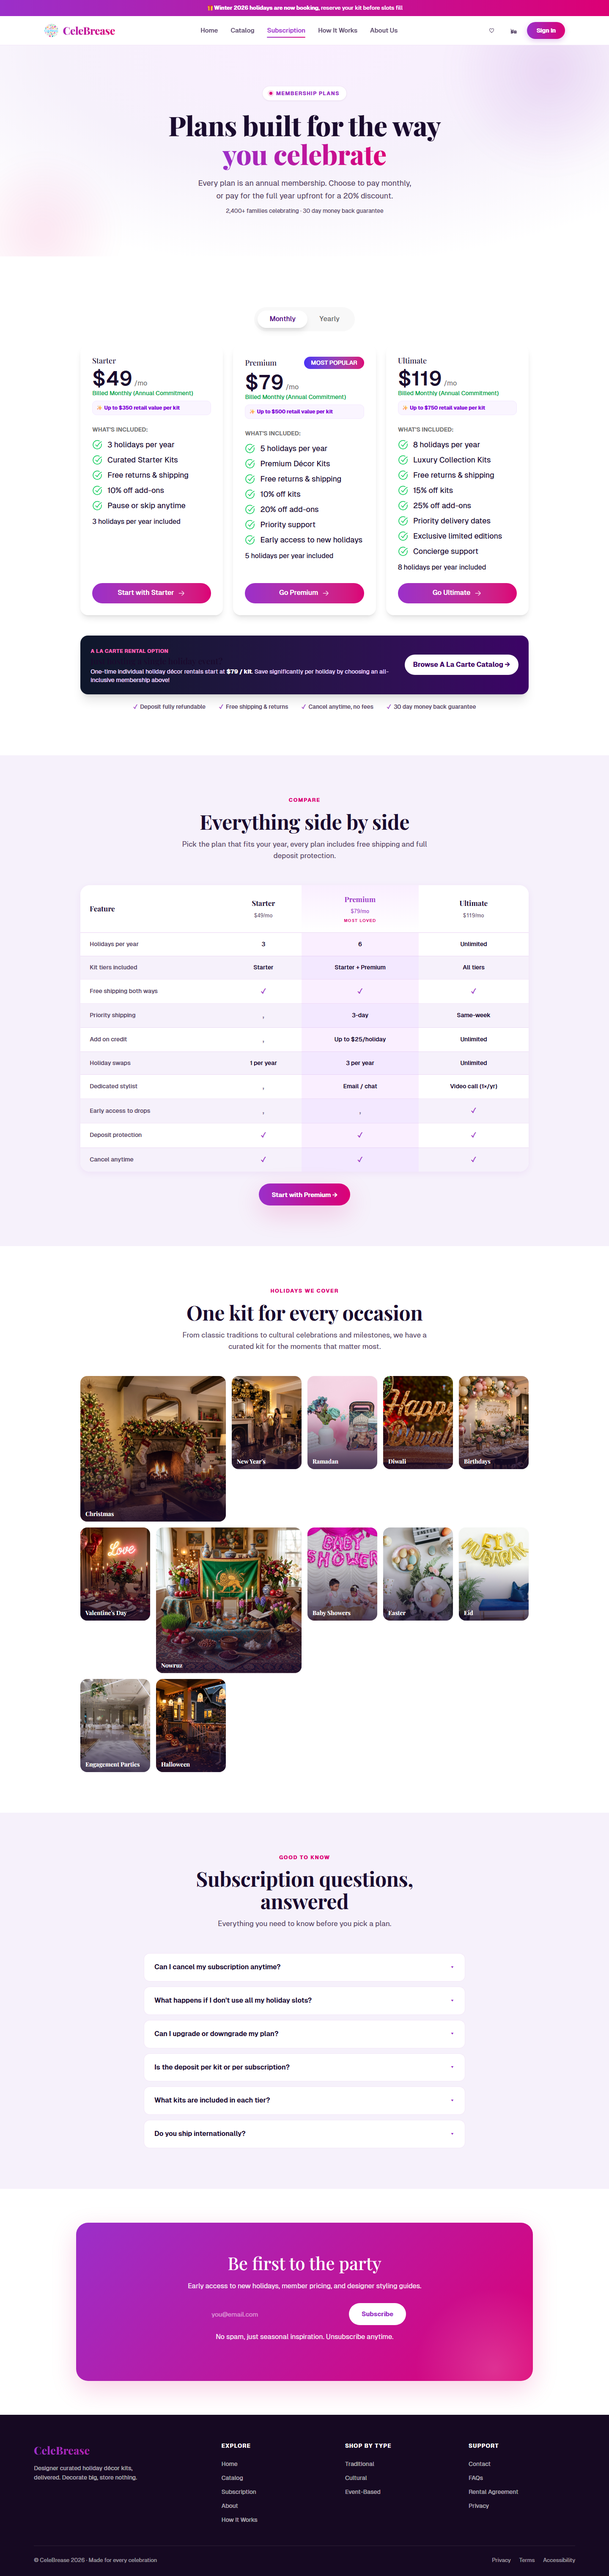
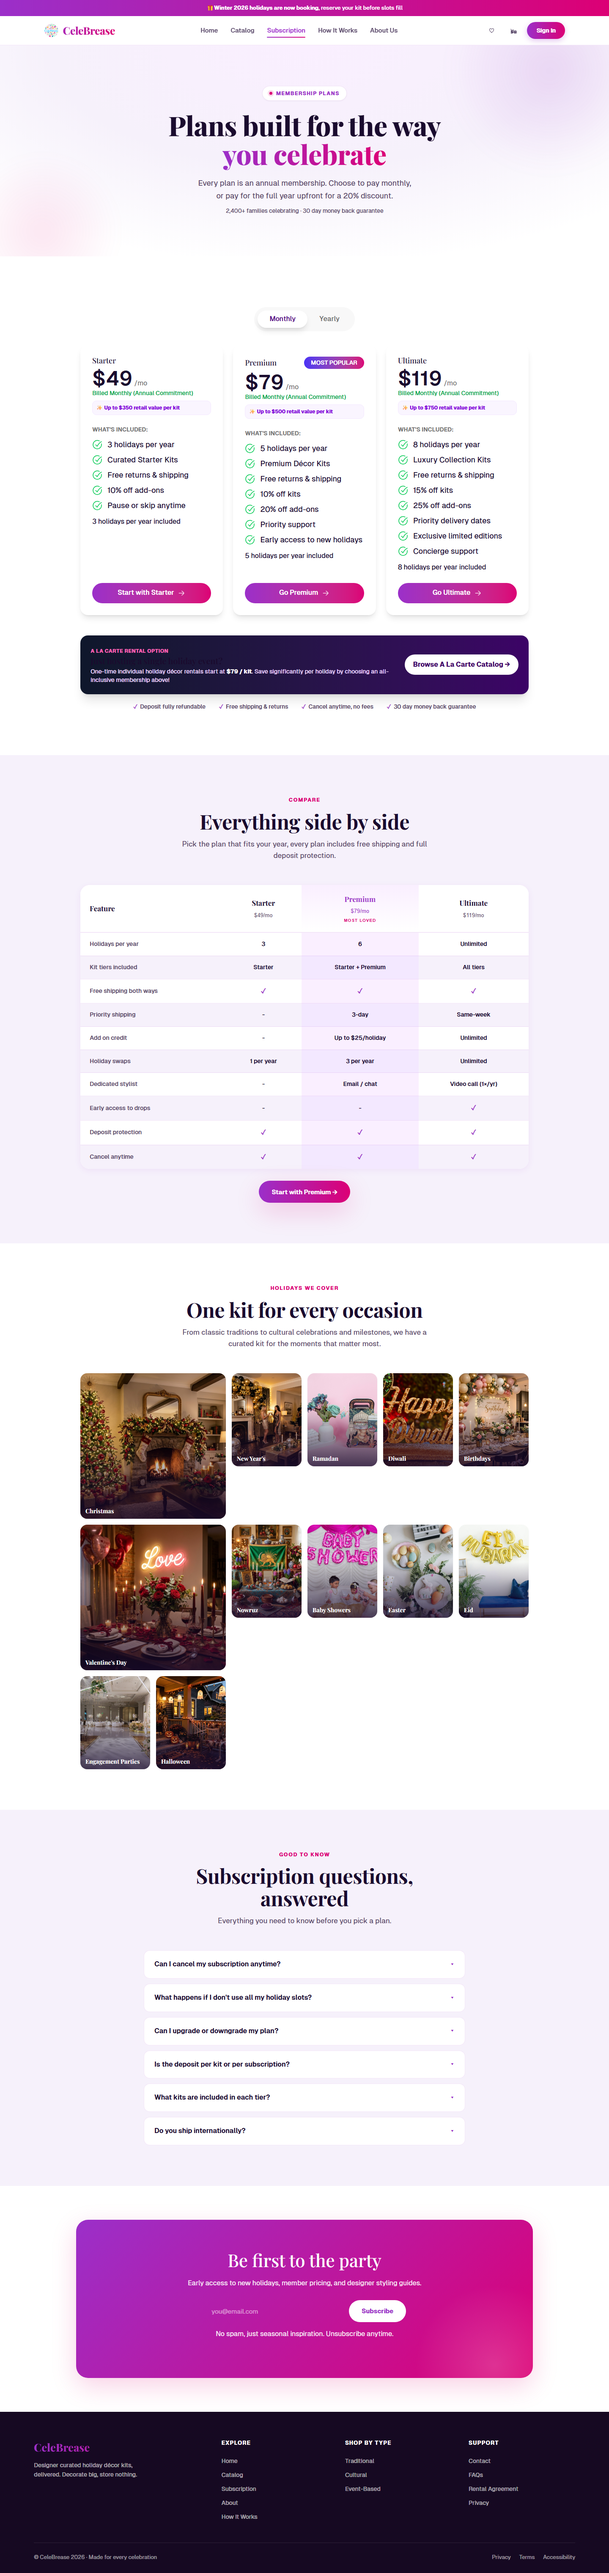
UI/UX: Apply fixes from secondary pages audit

diff --git a/frontend/src/app/(main)/catalog/[slug]/holiday-details.tsx b/frontend/src/app/(main)/catalog/[slug]/holiday-details.tsx
@@ -511,12 +511,12 @@ export function HolidayDetails({ holiday, kits, addOns = [] }: HolidayDetailsPro
                     </section>
                 )}
 
-                {/* Add Ons */}
+                {/* Add-ons */}
                 {addOns.length > 0 && (
                     <section className="cb-addons-section" aria-labelledby="addons-heading">
                         <div className="cb-sec-label">Elevate your kit</div>
-                        <h2 id="addons-heading">Optional add ons</h2>
-                        <div className="cb-addons-grid" role="group" aria-label="Optional add ons">
+                        <h2 id="addons-heading">Optional add-ons</h2>
+                        <div className="cb-addons-grid" role="group" aria-label="Optional add-ons">
                             {addOns.map(({ addOn }) => {
                                 const checked = selectedAddons.has(addOn.id);
                                 const deposit = Number(addOn.deposit);
@@ -624,10 +624,10 @@ export function HolidayDetails({ holiday, kits, addOns = [] }: HolidayDetailsPro
                         <div className="cb-upsell-copy">
                             <div className="cb-upsell-eyebrow">Save up to 30% per kit</div>
                             <h2>Celebrate every holiday for one monthly price</h2>
-                            <p>CeleBrease members get priority access, free add ons every season, and never pay per kit shipping. Join over 2,400 families who decorate without the clutter.</p>
+                            <p>CeleBrease members get priority access, free add-ons every season, and never pay per-kit shipping. Join over 2,400 families who decorate without the clutter.</p>
                             <div className="cb-upsell-perks">
                                 <div className="cb-upsell-perk">6 holidays / year</div>
-                                <div className="cb-upsell-perk">Free two way shipping</div>
+                                <div className="cb-upsell-perk">Free two-way shipping</div>
                                 <div className="cb-upsell-perk">Full deposit protection</div>
                                 <div className="cb-upsell-perk">Cancel anytime</div>
                             </div>

diff --git a/frontend/src/app/(auth)/signup/form.tsx b/frontend/src/app/(auth)/signup/form.tsx
@@ -8,6 +8,7 @@ import Image from "next/image";
 import { useRouter } from "next/navigation";
 import { useState } from "react";
 import { toast } from "sonner";
+import { ArrowRight } from "lucide-react";
 import { z } from "zod";
 
 function getPasswordStrength(password: string): { level: number; label: string; cssClass: string } {
@@ -256,7 +257,7 @@ export function SignupForm() {
                 .cb-auth-terms-row {
                     display: flex;
                     align-items: flex-start;
-                    gap: 10px;
+                    gap: 12px;
                     font-size: 13px;
                     color: #5B4A6B;
                     line-height: 1.5;
@@ -619,7 +620,7 @@ export function SignupForm() {
                                 className="cb-auth-btn-create"
                                 disabled={!canSubmit}
                             >
-                                {isSubmitting ? "Creating your account..." : "Create account →"}
+                                {isSubmitting ? "Creating your account..." : <span className="flex items-center gap-2 justify-center">Create account <ArrowRight className="w-4 h-4" /></span>}
                             </button>
                         )}
                     </form.Subscribe>

diff --git a/frontend/src/app/celebrease.css b/frontend/src/app/celebrease.css
@@ -190,7 +190,8 @@
 .cb-cta-inner h2 { color:#fff; font-size: clamp(1.8rem,3.4vw,2.6rem); margin-bottom:12px; position:relative; }
 .cb-cta-inner p { color:rgba(255,255,255,0.9); font-size:16px; margin-bottom:28px; position:relative; }
 .cb-news-form { display:flex; gap:12px; max-width:480px; margin:0 auto; flex-wrap:wrap; justify-content:center; position:relative; }
-.cb-news-form input { flex:1; min-width:220px; height:52px; padding:0 20px; border-radius:var(--cb-r-pill); border:none; font-size:15px; font-family:inherit; }
+.cb-news-form input { flex:1; min-width:220px; height:52px; padding:0 20px; border-radius:var(--cb-r-pill); border:1px solid rgba(255,255,255,0.3); background:rgba(255,255,255,0.2); color:#fff; font-size:15px; font-family:inherit; }
+.cb-news-form input::placeholder { color:rgba(255,255,255,0.8); }
 .cb-news-form button { height:52px; padding:0 30px; border-radius:var(--cb-r-pill); background:#fff; color:var(--cb-purple); font-weight:700; font-size:15px; transition:transform .2s; border:none; cursor:pointer; }
 .cb-news-form button:hover { transform:translateY(-2px); }
 .cb-cta-fine { margin-top:16px; font-size:13px; color:rgba(255,255,255,0.75); position:relative; }

diff --git a/frontend/capture_rest.js b/frontend/capture_rest.js
@@ -1,0 +1,39 @@
+const { chromium } = require('playwright');
+const fs = require('fs');
+
+const routes = [
+    "/subscription",
+    "/catalog/christmas",
+    "/cart",
+    "/signin",
+    "/signup",
+    "/account"
+];
+
+(async () => {
+  const browser = await chromium.launch({ headless: true });
+  const context = await browser.newContext({
+    viewport: { width: 1440, height: 900 }
+  });
+  
+  for (const route of routes) {
+    const page = await context.newPage();
+    const url = `https://celebrease.com${route}`;
+    console.log(`Navigating to ${url}...`);
+    try {
+      await page.goto(url, { waitUntil: 'networkidle' });
+      await page.waitForTimeout(1000);
+      
+      const fileName = route.replace(/\//g, "_").substring(1);
+      const path = `screenshots/${fileName}.png`;
+      await page.screenshot({ path: path, fullPage: true });
+      console.log(`Saved screenshot to ${path}`);
+    } catch (e) {
+      console.log(`Failed to capture ${url}: ${e.message}`);
+    }
+    await page.close();
+  }
+
+  await browser.close();
+  console.log("Captured remaining pages.");
+})();

diff --git a/frontend/src/app/(auth)/signin/form.tsx b/frontend/src/app/(auth)/signin/form.tsx
@@ -7,6 +7,7 @@ import { useRouter } from "next/navigation";
 import { useState } from "react";
 import { toast } from "sonner";
 import { z } from "zod";
+import { ArrowRight } from "lucide-react";
 
 const signinSchema = z.object({
     email: z.email("Enter your email address"),
@@ -344,7 +345,7 @@ export function SigninForm() {
                 {/* Submit, wrapped to override button styles */}
                 <div className="cb-submit-wrap">
                     <form.AppForm>
-                        <form.FormSubmit label="Sign In →" />
+                        <form.FormSubmit label={<span className="flex items-center gap-2 justify-center">Sign In <ArrowRight className="w-4 h-4" /></span>} />
                     </form.AppForm>
                 </div>
 

diff --git a/frontend/src/app/(auth)/signup/page.tsx b/frontend/src/app/(auth)/signup/page.tsx
@@ -159,7 +159,7 @@ export default function Signup() {
                         <p className="cb-auth-quote">
                             "I haven't bought a single decoration in two years. CeleBrease handles everything, beautifully."
                         </p>
-                        <p className="cb-auth-attr">, Priya K., New York, Premium member</p>
+                        <p className="cb-auth-attr">- Priya K., New York, Premium member</p>
                         <div className="cb-auth-perks">
                             <div className="cb-auth-perk">
                                 <span className="perk-ico">🛡</span>

diff --git a/frontend/src/components/form/form-submit.tsx b/frontend/src/components/form/form-submit.tsx
@@ -2,7 +2,7 @@ import { Button } from "@/components/ui/button";
 import { Spinner } from "@/components/ui/spinner";
 import { useFormContext } from "./form-context";
 
-export function FormSubmit({ label }: { label: string }) {
+export function FormSubmit({ label }: { label: React.ReactNode }) {
     const form = useFormContext();
 
     return (
